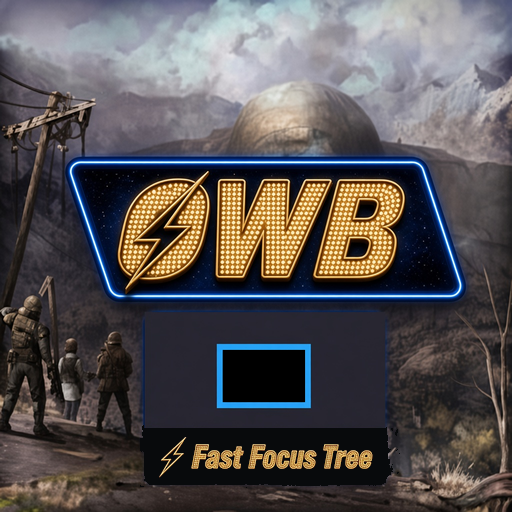
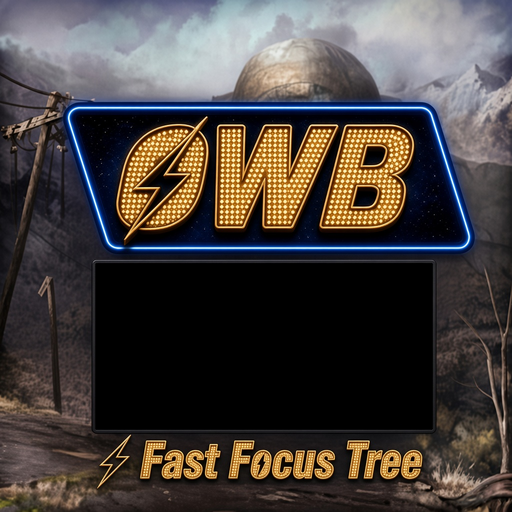
Fix bugwhere multiple tags were addedto playlist without --add-to-playlist set. Update template and flag logic

diff --git a/src/thumbnail.py b/src/thumbnail.py
@@ -3,10 +3,12 @@ from __future__ import annotations
 import json
 from pathlib import Path
 
-from PIL import Image
+from PIL import Image, ImageOps
 
 THUMBNAIL_SIZE = 512
 FLAG_SIZE = (82, 52)
+FLAG_ASPECT = FLAG_SIZE[0] / FLAG_SIZE[1]
+FLAG_ASPECT_TOLERANCE = 0.03
 DEFAULT_TEMPLATE_ALIAS = "vanilla"
 
 
@@ -18,14 +20,28 @@ def templates_dir() -> Path:
     return repo_root() / "assets" / "thumbnail_templates"
 
 
-def flag_slot_origin(template_path: Path | None = None, size: int = THUMBNAIL_SIZE) -> tuple[int, int]:
+def flag_aspect_ratio_ok(size: tuple[int, int]) -> bool:
+    width, height = size
+    if width <= 0 or height <= 0:
+        return False
+    return abs(width / height - FLAG_ASPECT) <= FLAG_ASPECT_TOLERANCE
+
+
+def flag_slot_rect(
+    template_path: Path | None = None, size: int = THUMBNAIL_SIZE
+) -> tuple[int, int, int, int]:
     width, height = FLAG_SIZE
+    origin_x = (size - width) // 2
+    origin_y = (size - height) // 2
     if template_path is not None:
         meta = template_path.with_suffix(".json")
         if meta.is_file():
             data = json.loads(meta.read_text(encoding="utf-8"))
-            return (int(data["flag_x"]), int(data["flag_y"]))
-    return ((size - width) // 2, (size - height) // 2)
+            origin_x = int(data.get("flag_x", origin_x))
+            origin_y = int(data.get("flag_y", origin_y))
+            width = int(data.get("flag_w", width))
+            height = int(data.get("flag_h", height))
+    return origin_x, origin_y, width, height
 
 
 def _require_size(image: Image.Image, expected: tuple[int, int], label: str, path: Path) -> None:
@@ -33,6 +49,14 @@ def _require_size(image: Image.Image, expected: tuple[int, int], label: str, pat
         raise ValueError(
             f"{label} must be {expected[0]}x{expected[1]} pixels, "
             f"got {image.size[0]}x{image.size[1]}: {path}"
+        )
+
+
+def _require_flag_aspect(image: Image.Image, path: Path) -> None:
+    if not flag_aspect_ratio_ok(image.size):
+        raise ValueError(
+            f"Country flag must be a rectangle with HOI4 flag aspect "
+            f"{FLAG_SIZE[0]}:{FLAG_SIZE[1]}, got {image.size[0]}x{image.size[1]}: {path}"
         )
 
 
@@ -106,18 +130,14 @@ def write_templated_thumbnail(
     template_path: Path,
     flag_path: Path,
     destination: Path,
-    *,
-    require_flag_size: bool,
 ) -> None:
     template = _open_rgba(template_path)
     _require_size(template, (THUMBNAIL_SIZE, THUMBNAIL_SIZE), "Thumbnail template", template_path)
     flag = _open_rgba(flag_path)
-    if require_flag_size:
-        _require_size(flag, FLAG_SIZE, "Country flag", flag_path)
-    elif flag.size != FLAG_SIZE:
-        flag = flag.resize(FLAG_SIZE, Image.Resampling.LANCZOS)
-    origin = flag_slot_origin(template_path)
+    _require_flag_aspect(flag, flag_path)
+    origin_x, origin_y, slot_w, slot_h = flag_slot_rect(template_path)
+    flag = ImageOps.fit(flag, (slot_w, slot_h), method=Image.Resampling.LANCZOS)
     canvas = template.copy()
-    canvas.paste(flag, origin, flag)
+    canvas.paste(flag, (origin_x, origin_y), flag)
     destination.parent.mkdir(parents=True, exist_ok=True)
     canvas.save(destination, format="PNG")

diff --git a/src/cli.py b/src/cli.py
@@ -34,7 +34,7 @@ def build_parser() -> argparse.ArgumentParser:
     parser.add_argument(
         "--save-game-location",
         dest="save_game_location",
-        help="Override the HOI4 save games directory (easy mode only).",
+        help="Override the HOI4 save games directory. Unused when --country-tags or --all-countries is set.",
     )
     parser.add_argument(
         "--playset",
@@ -44,13 +44,17 @@ def build_parser() -> argparse.ArgumentParser:
     parser.add_argument(
         "--add-to-playlist",
         dest="add_to_playlist",
-        help="Playset that should receive the generated mod(s) at the bottom of the load order.",
+        help=(
+            "Playset that should receive the generated mod(s) at the bottom of "
+            "the load order. Complex mode does not add anything to a playset "
+            "unless you pass this. Beware using it with --all-countries."
+        ),
     )
     parser.add_argument(
         "--no-add-to-playlist",
         dest="no_add_to_playlist",
         action="store_true",
-        help="Create the local mod files without changing any playset.",
+        help="Do not add generated mods to a playset (overrides add_to_playlist).",
     )
     parser.add_argument(
         "--focus-time",
@@ -80,8 +84,9 @@ def build_parser() -> argparse.ArgumentParser:
         "--country-flag",
         dest="country_flag",
         help=(
-            "Path to one in-game-sized flag image (82x52) used for every country "
-            "tag generated in this run. Ignored if --thumbnail is set."
+            "Path to one country flag image used for every country tag generated "
+            "in this run. Must be a rectangle with HOI4 flag aspect (82:52). "
+            "It is scaled to fill the template slot. Ignored if --thumbnail is set."
         ),
     )
     return parser
@@ -122,6 +127,7 @@ def _cli_overrides(args: argparse.Namespace, yaml_opts: Options) -> Options:
 
 def main(argv: list[str] | None = None) -> int:
     parser = build_parser()
+    cli_argv = sys.argv[1:] if argv is None else list(argv)
     args = parser.parse_args(argv)
     try:
         yaml_data: dict = {}
@@ -130,6 +136,7 @@ def main(argv: list[str] | None = None) -> int:
             if yaml_data:
                 break
         options = _cli_overrides(args, options_from_yaml(yaml_data))
+        options.easy_mode = len(cli_argv) == 0
         generated = generate(options)
     except Exception as exc:
         print(f"error: {exc}", file=sys.stderr)

diff --git a/src/game.py b/src/game.py
@@ -319,6 +319,10 @@ def plan_country_focus(
 
 
 def find_flag_path(paths: GamePaths, playset: Playset, tag: str) -> Path | None:
+    from PIL import Image
+
+    from .thumbnail import flag_aspect_ratio_ok
+
     tag = tag.upper()
     names = [
         f"{tag}.tga",
@@ -337,13 +341,34 @@ def find_flag_path(paths: GamePaths, playset: Playset, tag: str) -> Path | None:
     for root in search_roots:
         if not root.is_dir():
             continue
+        candidates: list[Path] = []
         for name in names:
             candidate = root / name
             if candidate.is_file():
-                return candidate
-        matches = sorted(root.glob(f"{tag}*.tga"))
-        if matches:
-            return matches[0]
+                candidates.append(candidate)
+        for pattern in (f"{tag}*.tga", f"{tag}*.png"):
+            candidates.extend(root.glob(pattern))
+        best: Path | None = None
+        best_area = -1
+        seen: set[Path] = set()
+        for candidate in candidates:
+            resolved = candidate.resolve()
+            if resolved in seen:
+                continue
+            seen.add(resolved)
+            try:
+                with Image.open(candidate) as image:
+                    size = image.size
+            except Exception:
+                continue
+            if not flag_aspect_ratio_ok(size):
+                continue
+            area = size[0] * size[1]
+            if area > best_area:
+                best = candidate
+                best_area = area
+        if best is not None:
+            return best
     return None
 
 

diff --git a/src/generate.py b/src/generate.py
@@ -60,6 +60,8 @@ def _target_tags(options: Options, paths: GamePaths, playset: Playset) -> list[s
 def _playlist_target(options: Options, analysis_playset: Playset, paths: GamePaths) -> Playset | None:
     if not options.add_to_playlist_enabled:
         return None
+    if not options.easy_mode and not options.add_to_playlist:
+        return None
     name = options.add_to_playlist or analysis_playset.name
     if name == analysis_playset.name:
         return analysis_playset
@@ -121,17 +123,14 @@ def write_country_mod(
     else:
         if options.country_flag:
             flag = options.country_flag
-            require_flag_size = True
         else:
             flag = find_flag_path(paths, playset, plan.tag)
             if flag is None:
                 raise FileNotFoundError(f"Could not find a flag for {plan.tag}")
-            require_flag_size = False
         write_templated_thumbnail(
             resolve_thumbnail_template(options.thumbnail_template),
             flag,
             thumbnail_dest,
-            require_flag_size=require_flag_size,
         )
 
     supported = _supported_version(paths, plan)

diff --git a/src/config.py b/src/config.py
@@ -22,6 +22,7 @@ class Options:
     playset: str | None = None
     add_to_playlist: str | None = None
     add_to_playlist_enabled: bool = True
+    easy_mode: bool = False
     focus_time: float = DEFAULT_FOCUS_TIME
     thumbnail: Path | None = None
     thumbnail_template: str | None = None
@@ -125,6 +126,7 @@ def merge_options(yaml_opts: Options, cli: Options) -> Options:
             if cli.add_to_playlist_enabled is False
             else yaml_opts.add_to_playlist_enabled
         ),
+        easy_mode=cli.easy_mode,
         focus_time=cli.focus_time if cli.focus_time != DEFAULT_FOCUS_TIME or yaml_opts.focus_time == DEFAULT_FOCUS_TIME else yaml_opts.focus_time,
         thumbnail=cli.thumbnail or yaml_opts.thumbnail,
         thumbnail_template=cli.thumbnail_template or yaml_opts.thumbnail_template,

diff --git a/CLAUDE.md b/CLAUDE.md
@@ -12,6 +12,8 @@ Config priority is **CLI > options.yaml / options.yml > built-in defaults**. `op
 
 ## What easy mode does
 
+Easy mode is **only** `python -m src` with no arguments. Any CLI argument is complex mode (files only, unless `--add-to-playlist` is passed).
+
 No arguments means:
 
 1. Read the launcher DB and use the playset with `isActive = 1`.
@@ -20,7 +22,7 @@ No arguments means:
 4. Copy only the focus files whose `focus_tree.country` block assigns that tag (`tag` / `original_tag`).
 5. Set those trees' `focus` / `shared_focus` / `joint_focus` `cost` values to `0` (completes at the start of the next in-game day).
 6. Write a local mod named `{last_focus_mod}_{tag}_focus_tree_edited`.
-7. Build `thumbnail.png` by overlaying that country's 82x52 in-game flag on the `template_vanilla` 512x512 template (blank centre slot).
+7. Build `thumbnail.png` by overlaying that country's in-game flag on the `template_vanilla` 512x512 template, scaled to fill the blank flag slot.
 8. Put every playset mod that alters national focuses into `dependencies`, in playset order.
 9. Append the generated mod to the bottom of that playset.
 
@@ -60,14 +62,14 @@ Only **enabled** playset mods are used. Disabled rows are ignored.
 
 Mods produced by this tool (`displayName` ending in `Focus Tree Edited`, folder ending in `_focus_tree_edited`) are skipped when resolving last-editor, source files, and dependencies so a rerun updates the existing generated mod instead of treating it as a new upstream.
 
-When `--add-to-playlist` is in effect (the default), the tool:
+Easy mode (no CLI arguments) appends the generated mod to the current playset. Complex mode (any CLI argument) writes files only unless `--add-to-playlist` is passed.
+
+When adding to a playset, the tool:
 
 - upserts a `source = local` row in `mods`
 - puts the mod at `MAX(position) + 1` in `playsets_mods` (or moves an existing row to the bottom)
 - appends `mod/[folder].mod` to `dlc_load.json`
 - updates the matching `playsets_backup/[playsetId].json` if it exists
-
-Use `--no-add-to-playlist` to write files only.
 
 ## How the last focus-tree editor is chosen
 
@@ -136,21 +138,21 @@ Bundled templates live in `assets/thumbnail_templates/`:
 - `template_vanilla.png` — default. HOI4 cover typography (white block caps) and sepia war-map palette, **HOI4** above the flag slot, **Fast Focus Tree** with a rounded weather-spark bolt below the flag.
 - `template_owb.png` — Old World Blues marquee/neon title style, gold bulb letters, **OWB** only above the flag slot, **Fast Focus Tree** with a matching Fallout marquee bolt below the flag.
 
-An optional sibling `.json` file may set `flag_x` / `flag_y` for the 82x52 overlay. Otherwise the flag is centred.
+An optional sibling `.json` file may set `flag_x` / `flag_y` / `flag_w` / `flag_h` for the overlay. Otherwise a centred 82x52 slot is used. The flag is scaled to fill that rectangle.
 
-Search for the country tag's flag from the end of the playset backwards, then vanilla:
+Search for the country tag's largest flag with HOI4 aspect (`82:52`) from the end of the playset backwards, then vanilla:
 
 1. `gfx/flags/TAG.tga` (also `.png`)
 2. Ideology variants (`TAG_neutrality.tga`, ...)
-3. First `gfx/flags/TAG*.tga`
+3. Other `gfx/flags/TAG*.tga` with the same aspect (skip tiny `small/` icons)
 
 Option priority:
 
 1. `--thumbnail` — one 512x512 image used for every country in the run. Must already be 512x512. Ignores `--thumbnail-template` and `--country-flag`.
 2. `--thumbnail-template` — a file path, or an alias taken from the part after `template_` (`vanilla` → `template_vanilla`, `owb` → `template_owb`). Must be 512x512. Default `vanilla`.
-3. `--country-flag` — one 82x52 image used as the flag for every country in the run. Must already be 82x52. Ignored if `--thumbnail` is set.
+3. `--country-flag` — one image used as the flag for every country in the run. Must match HOI4 flag aspect (`82:52`). Ignored if `--thumbnail` is set.
 
-If `--country-flag` is omitted, each country uses its own `gfx/flags` image (resized to 82x52 only when the source is not already that size).
+If `--country-flag` is omitted, each country uses its own largest matching `gfx/flags` image.
 
 ## Save-game country detection
 
@@ -168,7 +170,7 @@ Used only when `country_tags` is not set and `all_countries` is false.
 - `src/paths.py` — document / Steam / workshop discovery
 - `src/pdx.py` — Clausewitz parse, cost rewrite, `.mod` writer
 - `src/game.py` — launcher DB, playset, load-order resolve, saves, flags
-- `src/thumbnail.py` — 512x512 templates, 82x52 flag overlay, size checks
+- `src/thumbnail.py` — 512x512 templates, flag aspect check, slot overlay
 - `src/generate.py` — orchestration and file output
 - `assets/thumbnail_templates/` — bundled `template_vanilla` and `template_owb` frames
 

diff --git a/README.md b/README.md
@@ -28,11 +28,15 @@ python -m src
 
 ### Easy Mode
 
-If you run the script without any arguments it will create a single mod using the currently selected playset for the selected country in the most recent save file and then add that mod at the bottom of the load order for that playset. This means you can start a new game with your chosen country, save and exit, run the script, then reopen the paradox launcher and play the same with focuses that complete at the start of the next in-game day.
+Easy mode is **only** `python -m src` with no arguments. Any argument means complex mode.
+
+With no arguments the script creates a single mod from the currently selected playset and the country in the most recent save, then adds that mod at the bottom of that playset. Start a new game, save and exit, run the script, then reopen the launcher.
 
 ### Complex Mode
 
-The script has two ways of being configured: Command-line arguments and a options.yaml file (recommended for compatibility across platforms). The order of priority are CLI argument, options.yml and finally the defaults of the software. The options available are:
+Any command-line argument puts you in complex mode. Generated mods are written as local files and are **not** added to a playset unless you pass `--add-to-playlist`.
+
+The script can also be configured with `options.yaml` (recommended for compatibility across platforms). Priority is CLI argument, then options.yml, then the software defaults. The options available are:
 
 | Option | Description | Default |
 | --- | --- | --- |
@@ -40,12 +44,12 @@ The script has two ways of being configured: Command-line arguments and a option
 | `--all-countries` | Creates/Updates mods for every country that has a loaded focus tree. Providing this argument means `--country-tags` is ignored. | Off |
 | `--save-game-location` | Overwrite the default save game location for the game. The save game location is only used by quick mode. | `Documents/Paradox Interactive/Hearts of Iron IV/save games` |
 | `--playset` | The name of the playset to base the changes on. | Currently selected playset in the launcher |
-| `--add-to-playlist` | Will add any created mods to the provided playlist. Beware using this with `--all-countries` because it could be a lot of mods. | Same playset the trees were generated from |
-| `--no-add-to-playlist` | Create the local mod files without changing any playset. | Off |
+| `--add-to-playlist` | Add generated mods to this playset. Complex mode does not add anything unless you pass this. Beware using it with `--all-countries`. | Off |
+| `--no-add-to-playlist` | Do not add generated mods to a playset (overrides `add_to_playlist`). | Off |
 | `--focus-time` | HOI4 focus `cost` (weeks) written to all selected focuses. The default of `0` completes a focus at the start of the next in-game day. | `0` |
 | `--thumbnail` | Path to one 512x512 image. That same image is written as `thumbnail.png` for every country tag generated in this run. When set, `--thumbnail-template` and `--country-flag` are ignored. | Off |
 | `--thumbnail-template` | Bundled template name or a path to a 512x512 PNG. The in-game flag is overlaid in the blank centre slot. Names: `vanilla` → `template_vanilla` (default), `owb` → `template_owb`. Ignored if `--thumbnail` is set. | `vanilla` |
-| `--country-flag` | Path to one 82x52 flag image used for every country tag generated in this run. Ignored if `--thumbnail` is set. | Each country's `gfx/flags` image |
+| `--country-flag` | Path to one flag image used for every country in this run. Must match HOI4 flag aspect (`82:52`); it is scaled to fill the template slot. Ignored if `--thumbnail` is set. | Each country's `gfx/flags` image |
 
 Commented defaults for every option also live in `options.yaml`. YAML keys use underscores (`country_tags`, `focus_time`, ...).
 
